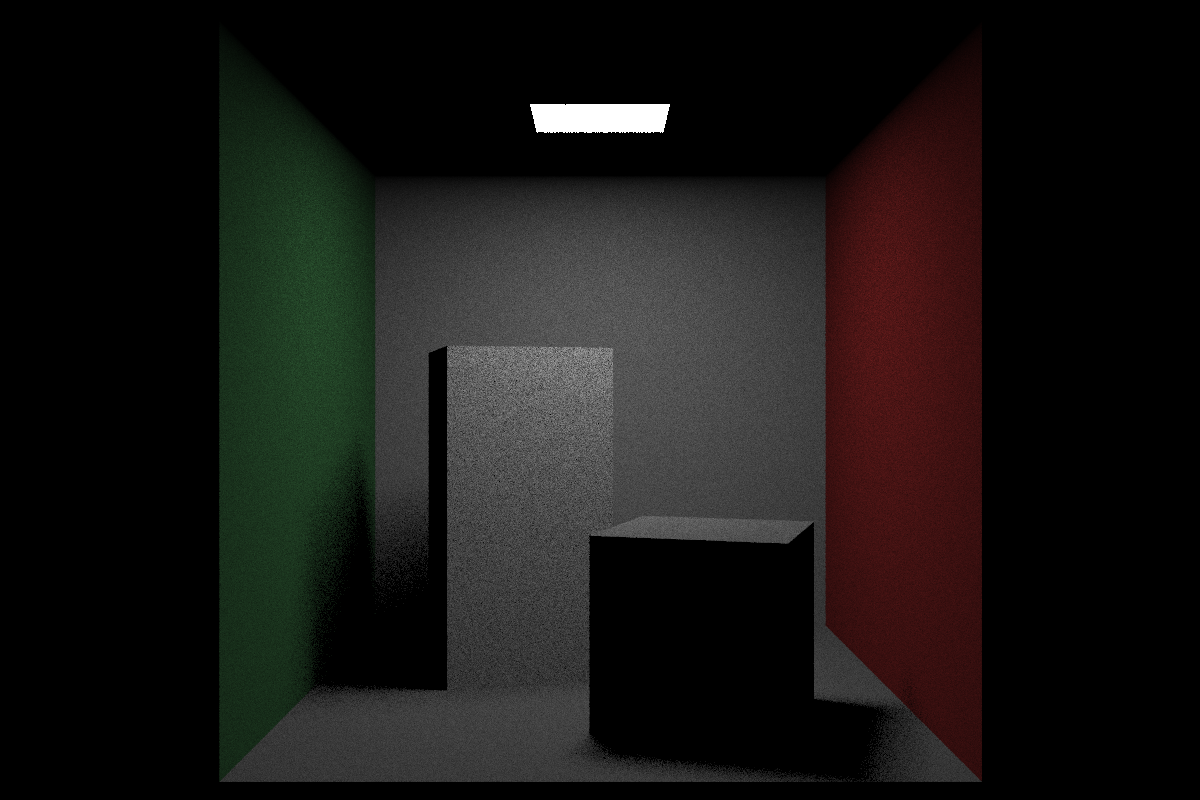
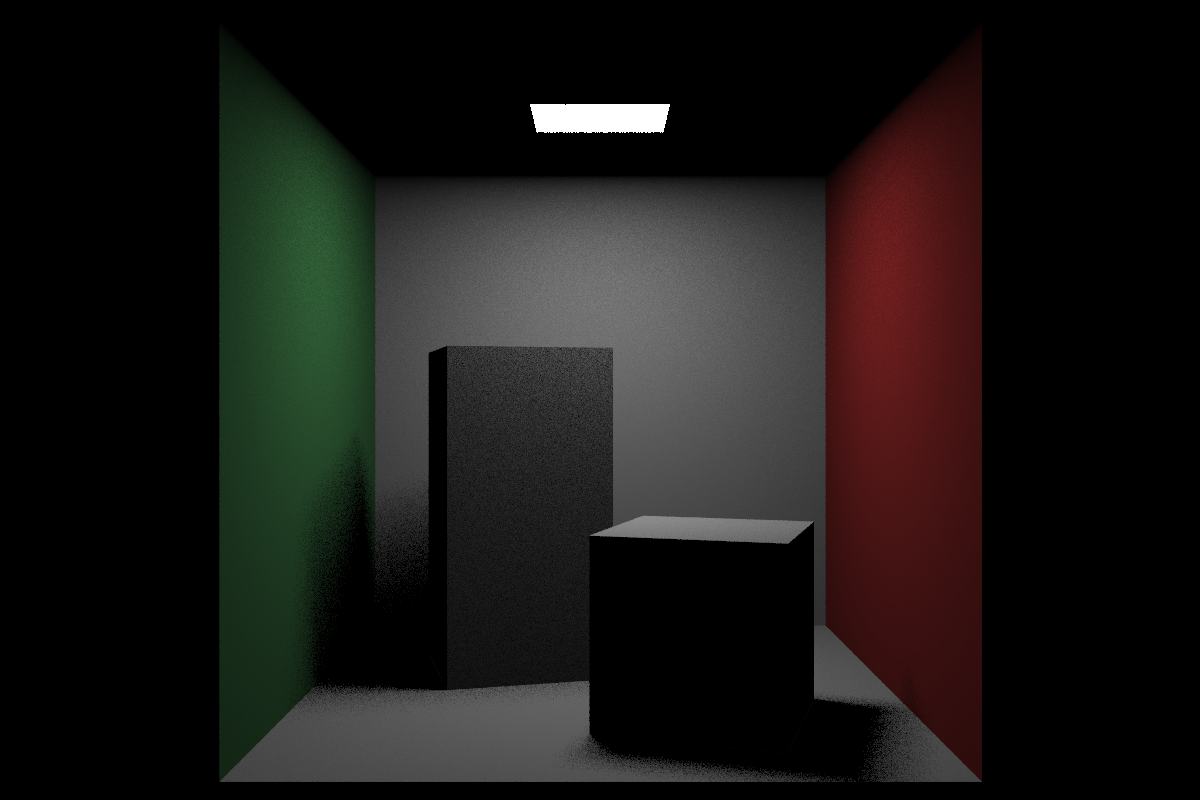
Finished chapter 8

diff --git a/main.py b/main.py
@@ -24,27 +24,20 @@ def color(r: ray, world: list,depth = 0,max_depth = 4):
     if (hit_anything):
         scattered = ray(vec3(0,0,0),vec3(0,0,0),0.0)
         albedo = vec3(0,0,0)
-        pdf = 0.0
-        if_scatter,(scattered,albedo,pdf) = rec.mat.scatter(r,rec)
+        pdf_val = 0.0
+        if_scatter,(scattered,albedo,pdf_val) = rec.mat.scatter(r,rec)
         emitted = rec.mat.emitted(r,rec,rec.u,rec.v,rec.p)
-        scattering_pdf = rec.mat.scattering_pdf(r,rec,scattered)
         if (depth < max_depth and if_scatter):
 
-            # hard coding to always pick light direction
-            on_light = vec3(213 + random.random() * (343-213), 554,227 + random.random() *(332 - 227))
-            to_light = on_light - rec.p
-            distance_squared = to_light.length() ** 2 
-            to_light = unit_vector(to_light)
-            if to_light.dot(rec.normal) < 0:
-                return emitted
-            light_area = (343 - 213) * (332 - 227)
-            light_cosine = abs(to_light[1])
-            if light_cosine < 0.0000001:
-                return emitted
-            pdf = distance_squared / (light_cosine * light_area)
-            scattered = ray(rec.p,to_light,r.time)
+            light_shape = xz_rect(213,343,227,332,554,0)
+            p0 = hitable_pdf(light_shape,rec.p)
+            p1 = cosine_pdf(rec.normal)
+            p = mixture_pdf(p0,p1)
+            scattered = ray(rec.p,p.generate(),r.time)
+            pdf_val = p.value(scattered.direction)
+            scattering_pdf = rec.mat.scattering_pdf(r,rec,scattered)
 
-            return emitted + albedo * scattering_pdf * color( scattered,world,depth + 1,max_depth) / pdf
+            return emitted + albedo * scattering_pdf * color( scattered,world,depth + 1,max_depth) / pdf_val
         else:
             return emitted
     else:
@@ -97,7 +90,9 @@ if  __name__ == "__main__":
     #main("./test_large",output_res = (800,800),num_samples = 1024)
     #main("./test_medium",output_res = (500,500),num_samples = 1024)
     #main("./test_small",output_res = (400,300),num_samples = 1024)
-    main("./test_large_imp",output_res = (1200,800),num_samples = 10)
+    #main("./test_large_imp",output_res = (1200,800),num_samples = 10)
+    main("./test_small",output_res = (400,300),num_samples = 1024)
+
 
 
 

diff --git a/src/core/random_functions.py b/src/core/random_functions.py
@@ -1,6 +1,9 @@
 from geometry import * 
 from math import *
+from hitable import * 
 import random
+from abc import ABC,abstractmethod
+
 
 '''
 randomly sample direction through unit disk
@@ -31,3 +34,52 @@ def random_cosine_direction():
 	x = cos(phi) * 2 * sqrt(r2)
 	y = sin(phi) * 2 * sqrt(r2)
 	return vec3(x,y,z)
+
+class pdf(ABC):
+	def __init__(self):
+		pass
+	def value(self,direction: vec3):
+		return 0
+	def generate(self):
+		return 0
+
+class cosine_pdf(pdf):
+	def __init__(self,w: vec3):
+		self.uvw = onb()
+		self.uvw.build_from_w(w)
+	def value(self,direction: vec3):
+		cosine = unit_vector(direction).dot(self.uvw.axis[2])
+		if cosine > 0.0:
+			return cosine/pi
+		else:
+			return 0.0
+	def generate(self):
+		return self.uvw.local(random_cosine_direction())
+
+class hitable_pdf(pdf):
+	def __init__(self,p, origin: vec3):
+		self.p = p
+		self.o = origin
+	def value(self,direction):
+		return self.p.pdf_value(self.o,direction)
+	def generate(self):
+		return self.p.random_gen(self.o)
+
+class mixture_pdf(pdf):
+	def __init__(self,p0: pdf,p1: pdf):
+		self.p = []
+		self.p.append(p0)
+		self.p.append(p1)
+	def value(self,direction: vec3):
+		return 0.5 * self.p[0].value(direction) + 0.5 * self.p[1].value(direction)
+	def generate(self):
+		if random.random() < 0.5:
+			return self.p[0].generate()
+		else:
+			return self.p[1].generate() 
+
+
+
+
+
+

diff --git a/src/core/shape.py b/src/core/shape.py
@@ -159,6 +159,23 @@ class xz_rect(hitable):
 	def bounding_box(self,t0: float, t1: float ): 
 		box = aabb(vec3(self.x0,self.k-0.0001,self.z0),vec3(self.x1,self.k + 0.0001,self.z1))
 		return (True,box)
+	def pdf_value(self,o: vec3, v: vec3):
+		rec = hit_record()
+		is_hit,rec = self.hit(ray(o,v),0.001,FLT_MAX)
+		if is_hit:
+			area = (self.x1-self.x0) * (self.z1-self.z0)
+			distance_squared = rec.t * rec.t * (v.length() ** 2 )
+			cosine = abs(v.dot(rec.normal)) / v.length()
+			return distance_squared / (cosine * area)
+		else: 
+			return 0
+	def random_gen(self,o: vec3):
+		random_point = vec3(self.x0 + random.random() * (self.x1-self.x0),
+							self.k,
+							self.z0 + random.random() * (self.z1 - self.z0))
+		return random_point - o
+
+
 
 
 '''

diff --git a/src/core/geometry.py b/src/core/geometry.py
@@ -113,7 +113,7 @@ def unit_vector(vec: vec3):
     return vec/vec.length()
 
 class ray:
-    def __init__(self,a: vec3, b: vec3,time: float):
+    def __init__(self,a: vec3, b: vec3,time: float = 0.0):
         self.origin = a
         self.direction = b
         self.time = time

diff --git a/src/core/hitable.py b/src/core/hitable.py
@@ -31,6 +31,10 @@ class hitable(ABC):
 		pass
 	def bounding_box(self, t0: float, t1: float):
 		pass
+	def pdf_value(self,o: vec3,v: vec3):
+		return 0.0
+	def random(self,o:vec3):
+		return vec3(1,0,0)
 
 def ffmin(a: float, b: float):
 	return (b,a )[a < b]
